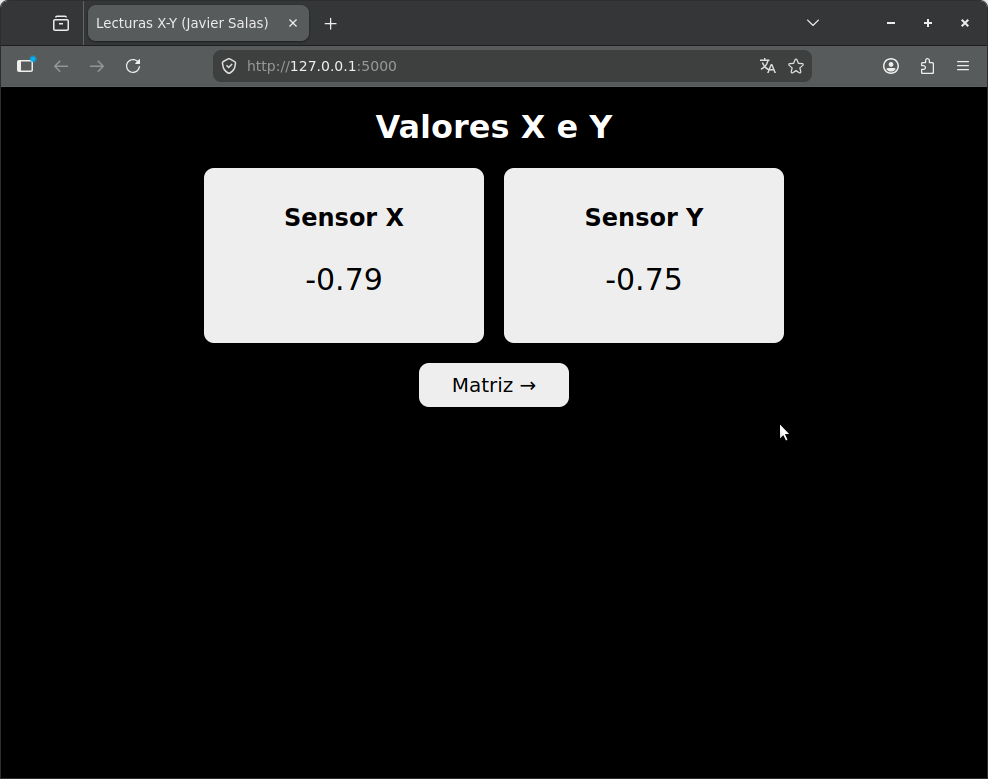
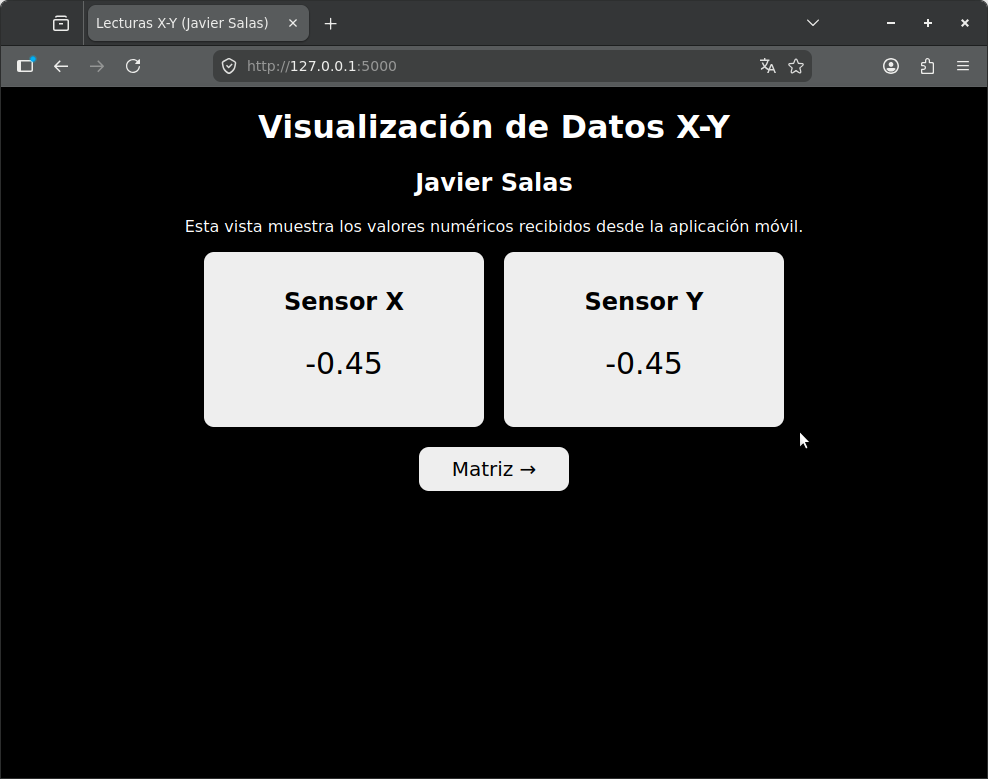
actualizar readme y detalles en visualizacion final

Changed region(s): [[0.1822, 0.4313, 0.8198, 0.647], [0.1822, 0.2157, 0.8198, 0.4005], [0.2429, 0.1232, 0.7287, 0.1849]]

diff --git a/templates/index.html b/templates/index.html
@@ -61,8 +61,11 @@
 
 <body>
 
-    <h1>Valores X e Y</h1>
-
+    <h1>Visualización de Datos X-Y</h1>
+	<h2>Javier Salas</h2>
+	<p>
+		Esta vista muestra los valores numéricos recibidos desde la aplicación móvil.
+	</p>
     <div id="contenedor">
         <div id="tarjetaX">
             <h2>Sensor X</h2>

diff --git a/templates/matrix.html b/templates/matrix.html
@@ -61,7 +61,11 @@
 <body>
 
 	<h1>Matriz 4×4</h1>
-
+	<h2>Javier Salas</h2>
+	<p>
+		Los valores X e Y se escalan desde el rango [-10, 10] hacia una matriz de 4×4,
+		encendiendo la celda correspondiente a la posición calculada.
+	</p>
 	<div id="matriz">
 		{% for fila in range(3, -1, -1) %}
 			{% for columna in range(4) %}

diff --git a/README.md b/README.md
@@ -112,6 +112,13 @@ http://127.0.0.1:5000
 
 ---
 
+## Referencias
+
+Este proyecto fue desarrollado a partir del repositorio base proporcionado por el docente.
+No se utilizaron repositorios adicionales de otros estudiantes.
+
+---
+
 ## Autor
 
 **Javier Salas**